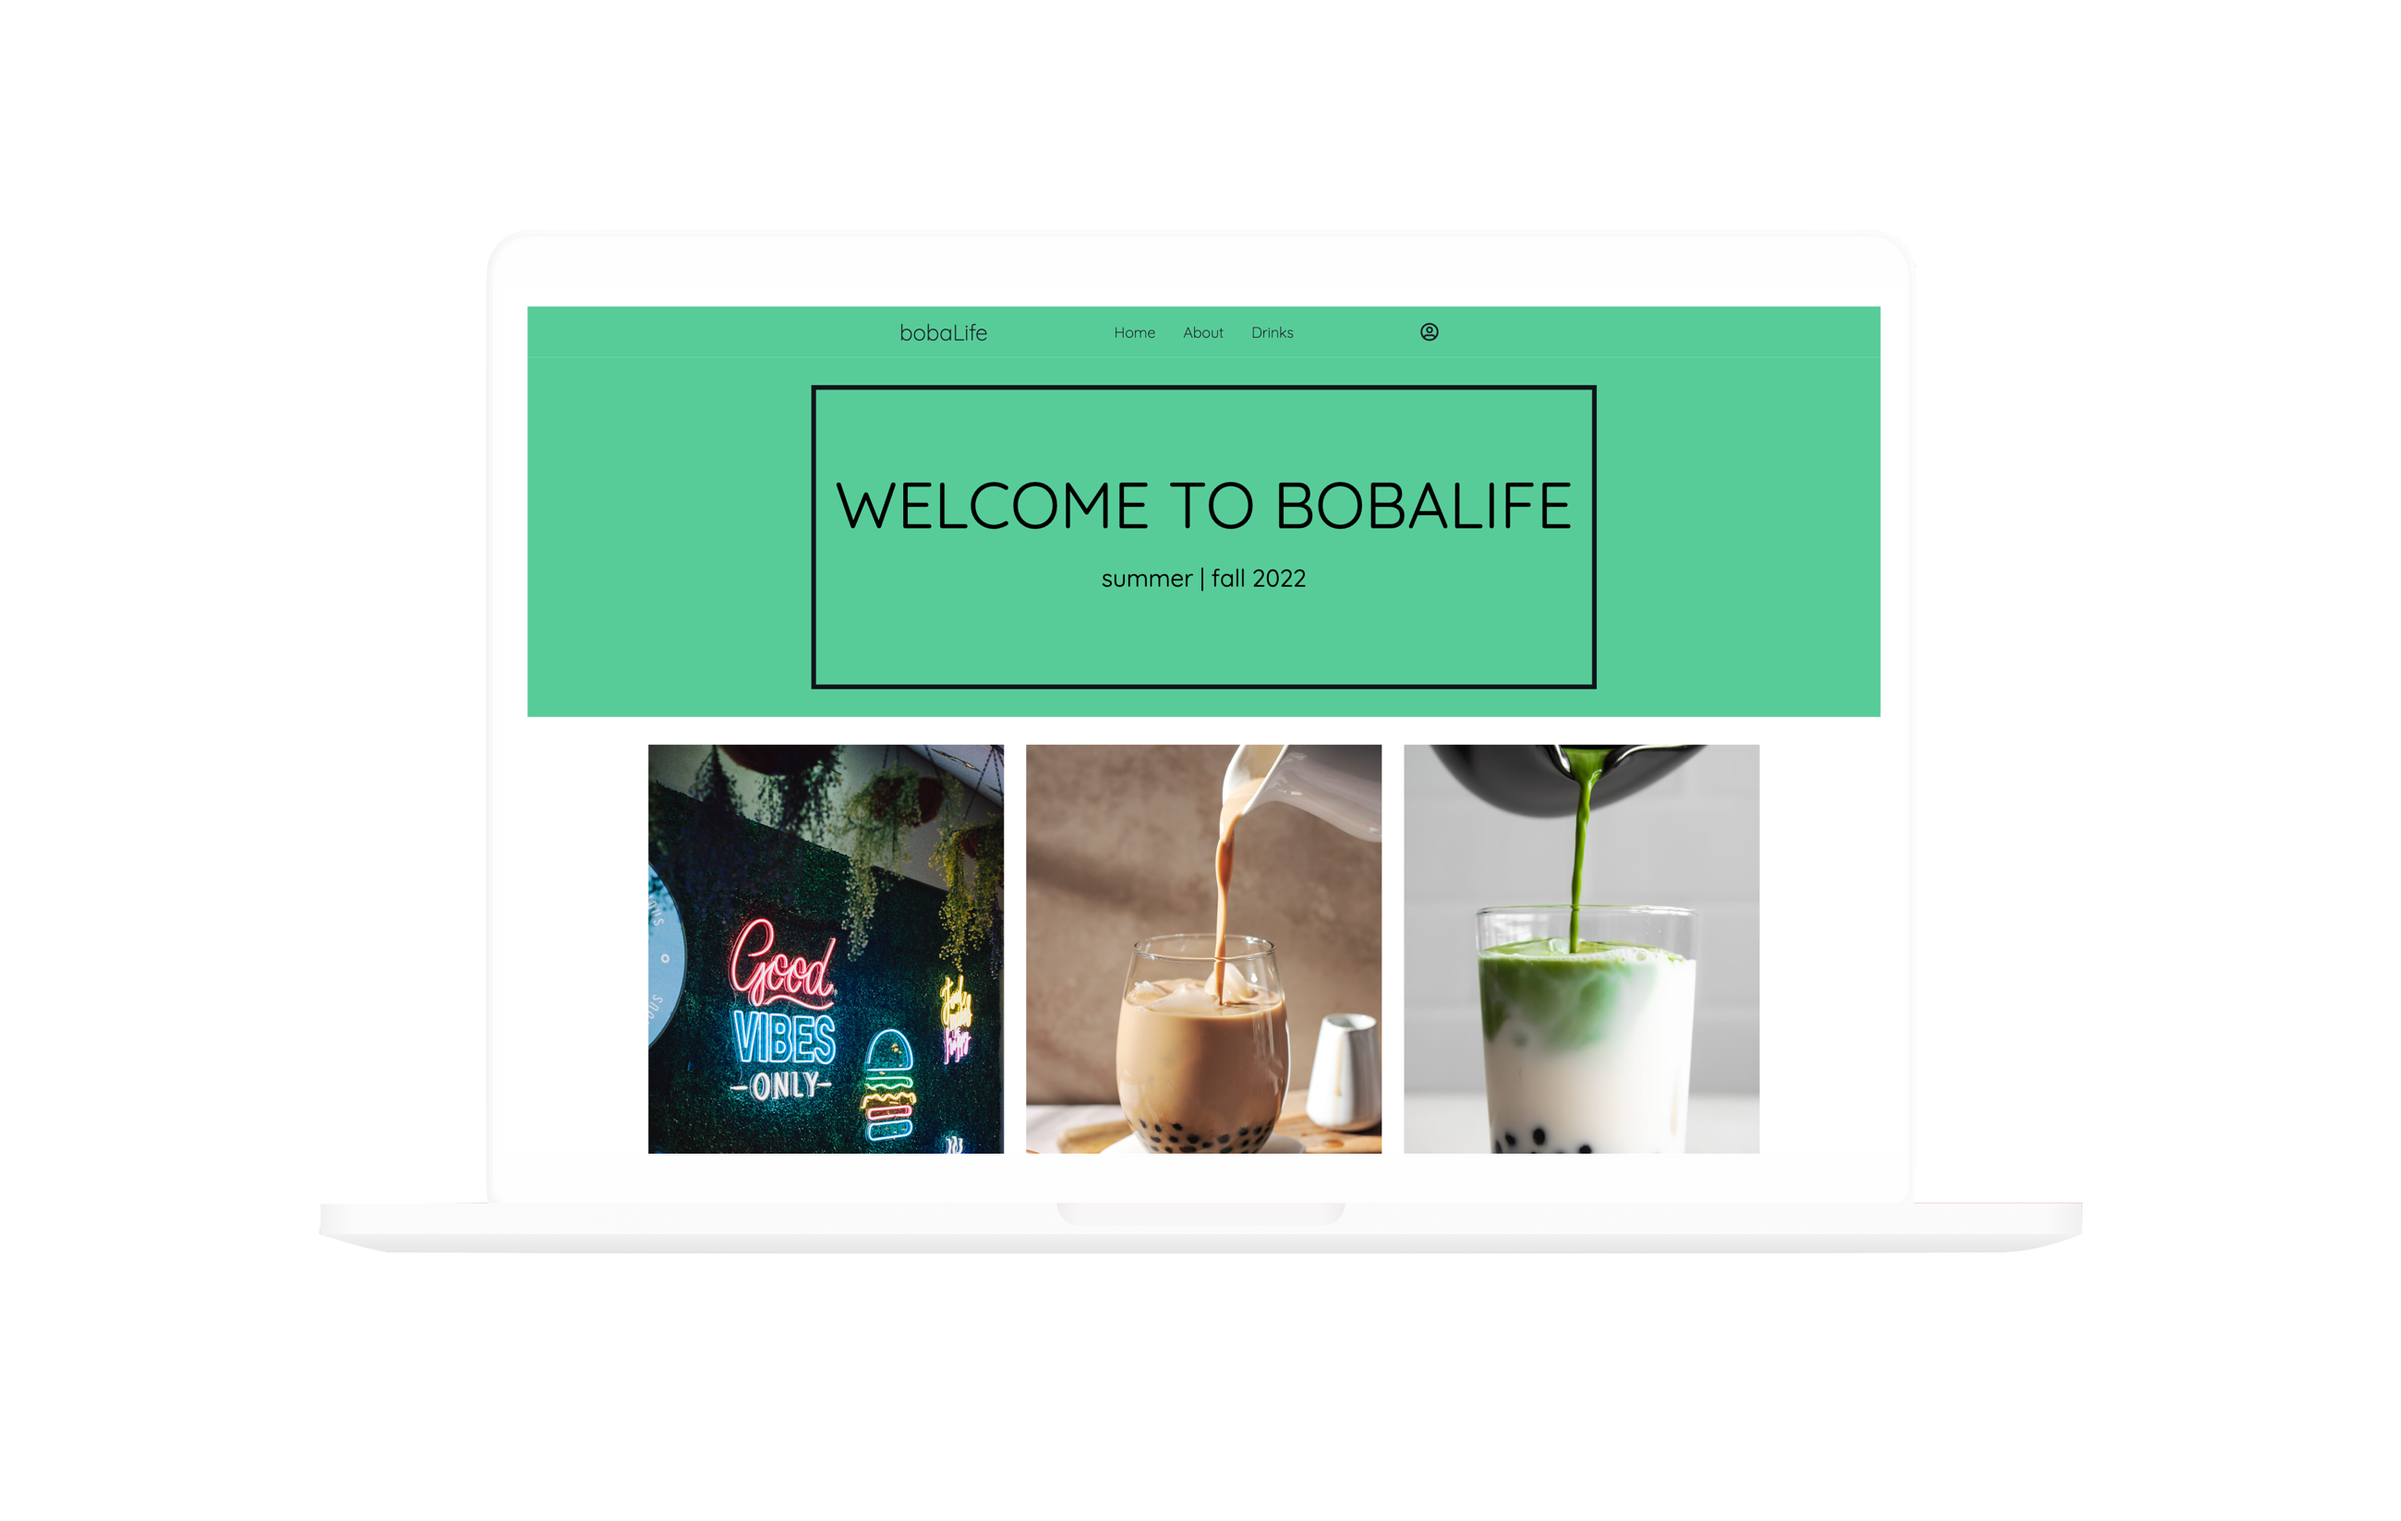
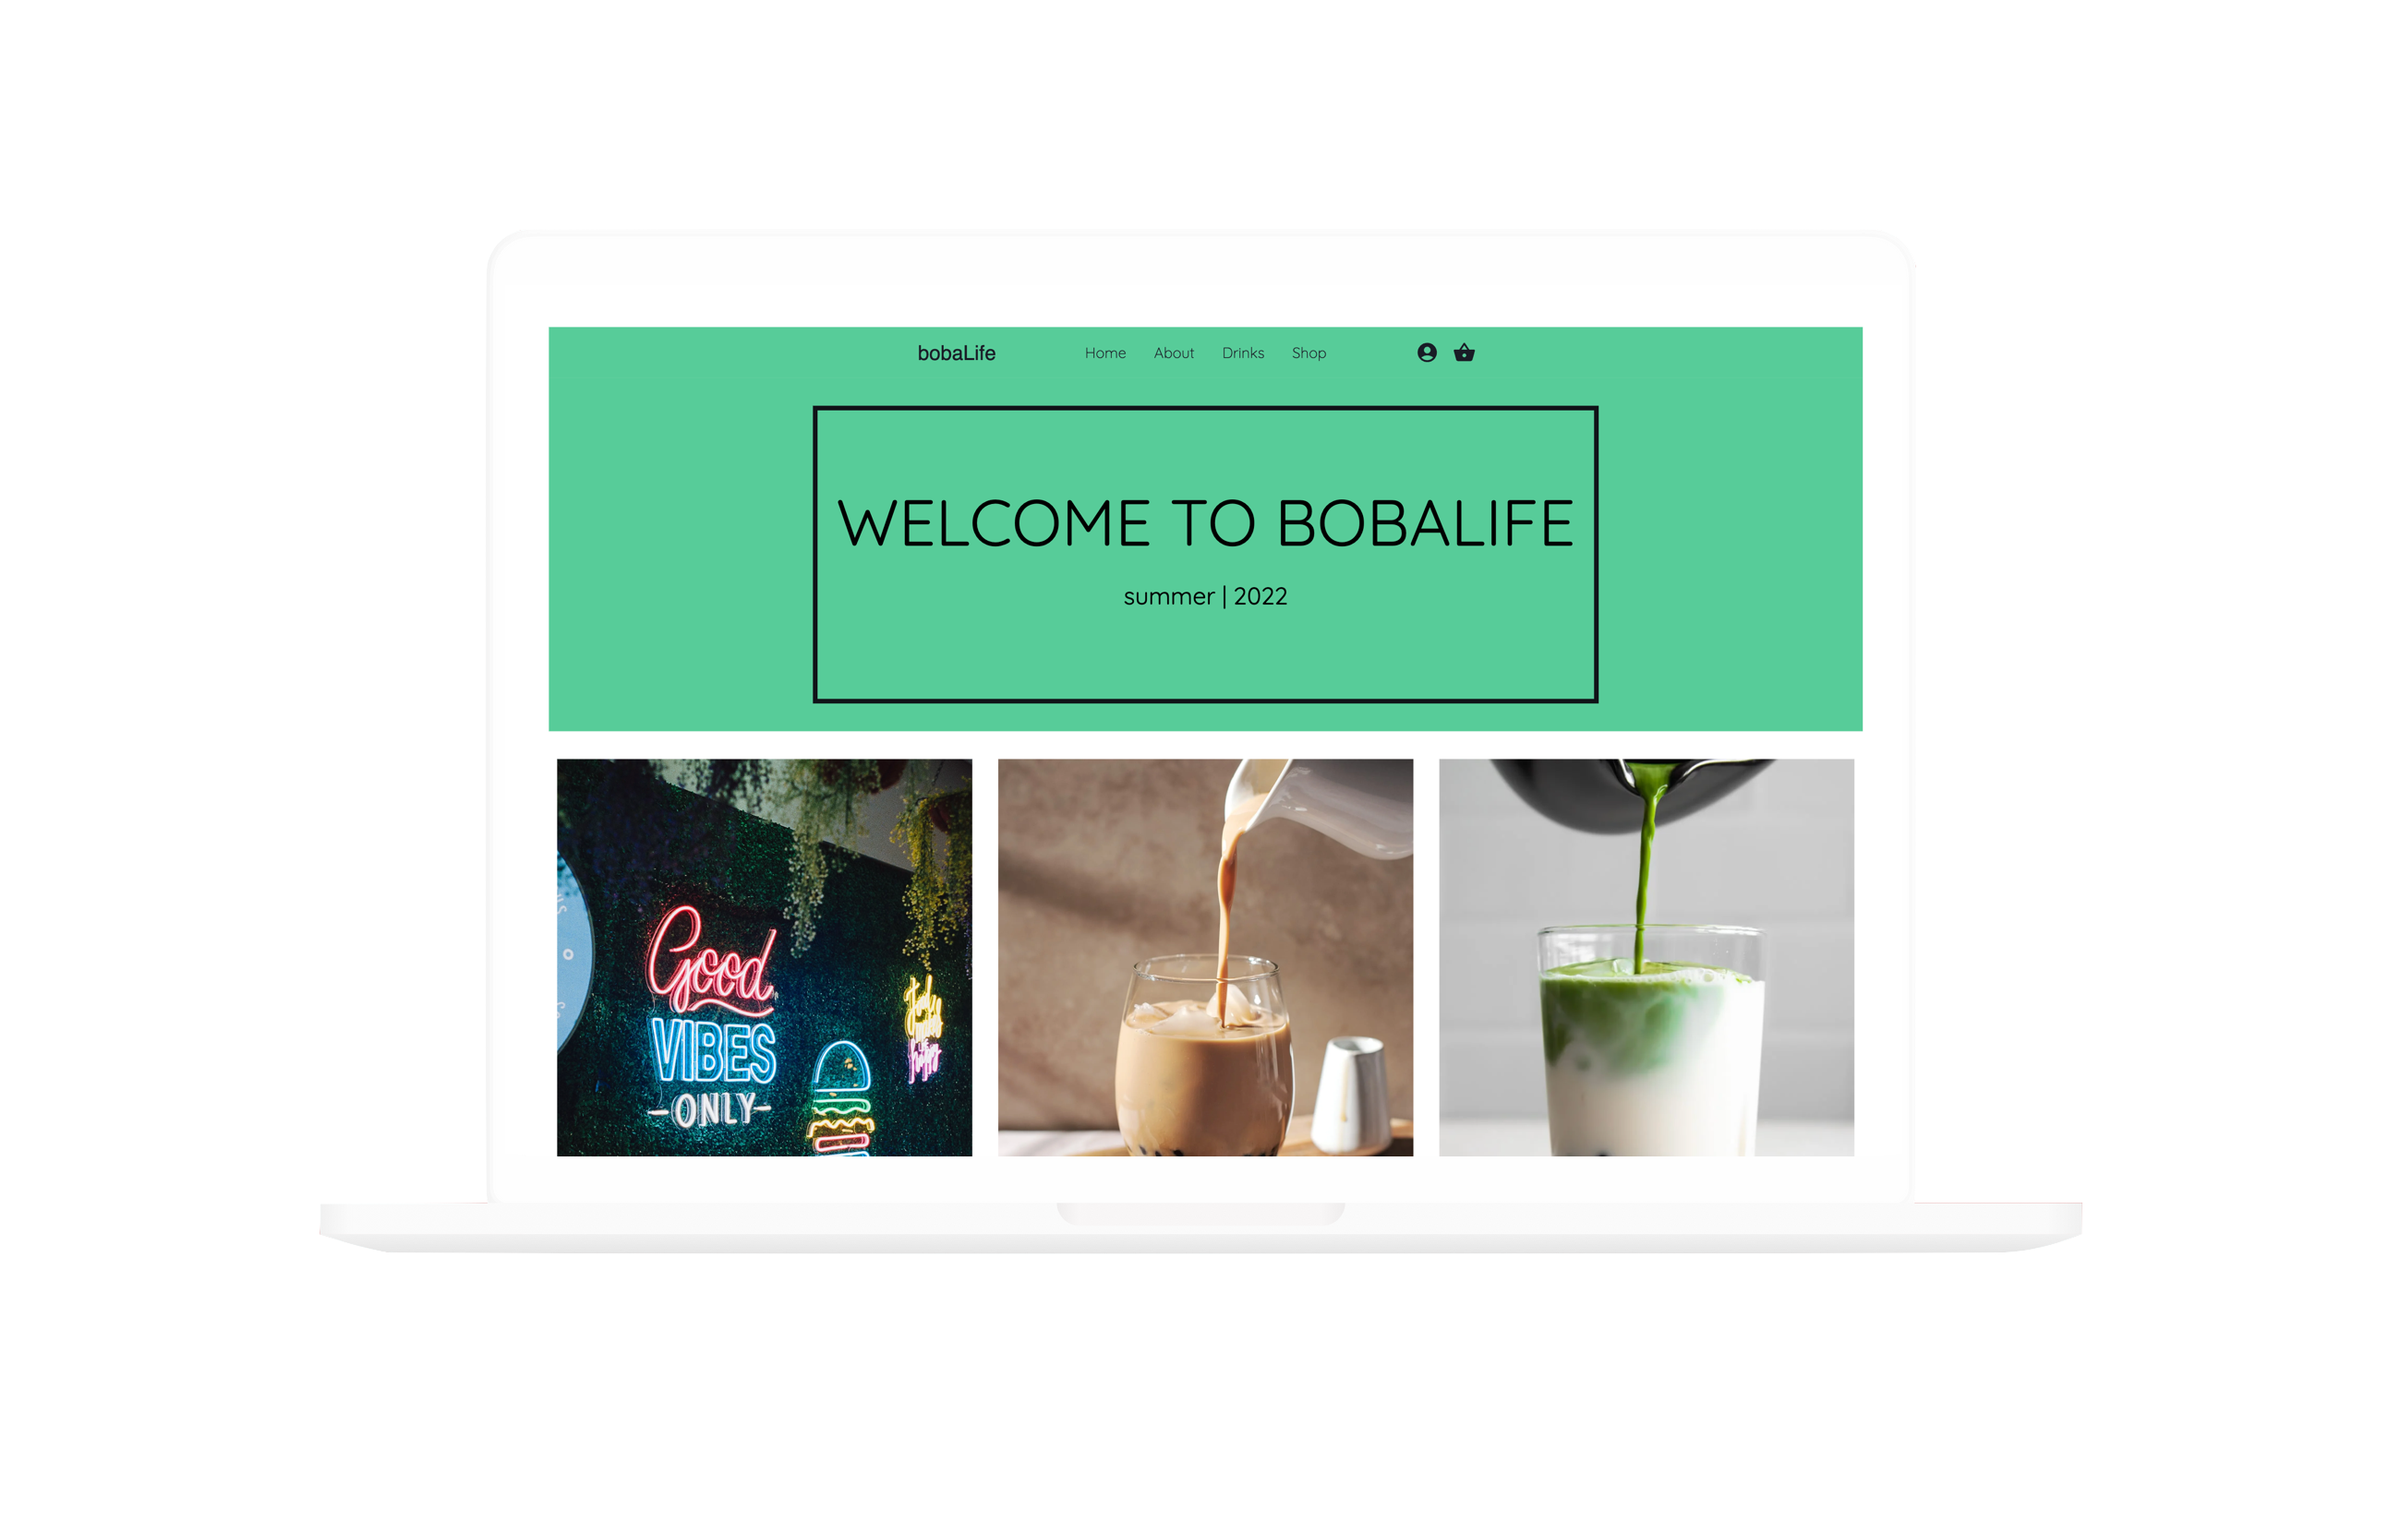
update portfolio and add README.md

Changed region(s): [[0.2181, 0.1857, 0.7788, 0.7737], [0.3427, 0.3095, 0.6542, 0.4023], [0.7788, 0.2166, 0.81, 0.4642]]

diff --git a/client/src/constants/projects.js b/client/src/constants/projects.js
@@ -2,12 +2,23 @@ import asador from "../assets/projects/asador.png";
 import bobaLife from "../assets/projects/bobaLife.png"; 
 import ioniq5 from "../assets/projects/ioniq5.png"; 
 import sailmasterII from "../assets/projects/sailmasterII.png"; 
-import koffee from "../assets/projects/koffee.png"; 
 import laptopMain from "../assets/projects/laptop1.png"; 
 
 export const projects = [
     {
         id: 1, 
+        img: bobaLife, 
+        title: "bobaLife", 
+        description: "Who enjoys sipping an ice-cold boba milk tea at any time of the day? bobaLife is an e-commerce web app designed for a fictitous boba shop. This app incorporates working cart/checkout process and integration of Stripe mobile payments.",
+        buttons: ["React", "Redux", "Styled Components", "Express", "JWT", "Stripe-js", "MongoDB", "Netlify"], 
+        backgroundColor: "var(--fuzzy-wuzzy)", 
+        liveSite: "https://bobalife.netlify.app", 
+        githubRepo: "https://github.com/danveb/bobalife", 
+        target: "_blank", 
+        rel: "noreferrer noopener", 
+    }, 
+    {
+        id: 2, 
         img: asador, 
         title: "asador", 
         description: "Ever wondered about asado (barbeque) in Buenos Aires? Asador is all about sharing the joy of the best parrillas (steakhouses). Users are greeted with a live map with pins. Signing up for an account allows users to pin their favorite parrillas.", 
@@ -19,35 +30,11 @@ export const projects = [
         rel: "noreferrer noopener", 
     }, 
     {
-        id: 2, 
-        img: bobaLife, 
-        title: "bobaLife", 
-        description: "Who enjoys sipping an ice-cold boba milk tea at any time of the day? bobaLife is a personal website I designed for a potential side-biz opportunity. This app includes React Redux and features JWT and Auth on the backend. Potentially may work on an e-commerce functionality.", 
-        buttons: ["React", "Redux", "Sass", "Express", "JWT", "MongoDB", "Netlify"], 
-        backgroundColor: "var(--fuzzy-wuzzy)", 
-        liveSite: "https://bobalife.netlify.app", 
-        githubRepo: "https://github.com/danveb/bobalife", 
-        target: "_blank", 
-        rel: "noreferrer noopener", 
-    }, 
-    {
         id: 3, 
-        img: koffee, 
-        title: "koffee.ly", 
-        description: "An e-commerce website designed for a fictitious coffee shop in town. Browse a selection of classic coffee products and accessories while enjoying an ice-cold coffee. Currently this app is in development stage as I continue to build functionalities. Work in progress!", 
-        buttons: ["React", "Redux", "Styled Components", "Express", "JWT", "MongoDB"],
-        backgroundColor: "var(--powder-blue)", 
-        liveSite: "", 
-        githubRepo: "https://github.com/danveb/koffee.ly", 
-        target: "_blank", 
-        rel: "noreferrer noopener", 
-    }, 
-    {
-        id: 4, 
         img: ioniq5, 
         title: "ioniq5 Lookup", 
-        description: "App designed for users who want to search deliveries of 2022 Hyundai IONIQ 5 to local dealerships. User can fill in the zipcode and desired radius (in miles). Data is fetched from Hyundai USA's API and key details are displayed on a table.", 
-        buttons: ["React", "Sass", "Material UI", "Express", "Hyundai USA API", "Netlify"], 
+        description: "App designed for users who want to search deliveries of 2022 Hyundai IONIQ 5 to local dealerships. User can fill in the zipcode and radius. Data is fetched from Hyundai's API and key details are displayed on a table.", 
+        buttons: ["React", "Sass", "MUI", "Express", "Hyundai USA API", "Netlify"], 
         backgroundColor: "var(--ny-pink)", 
         liveSite: "https://ioniq5-lookup.netlify.app/", 
         githubRepo: "https://github.com/danveb/ioniq5", 
@@ -55,11 +42,11 @@ export const projects = [
         rel: "noreferrer noopener", 
     }, 
     {
-        id: 5, 
+        id: 4, 
         img: sailmasterII, 
         title: "Sail Master II", 
         description: "Sail-Master II is an app for sailors and water sports’ enthusiasts that have a common goal to share the joy in sailing. This app lets users know if sailing conditions based on current wind parameters are appropriate to enjoy a day out on the water.", 
-        buttons: ["React", "Express", "JWT", "Weather API", "PostgreSQL"], 
+        buttons: ["React", "Express", "JWT", "Weather API", "PostgreSQL", "Surge"], 
         backgroundColor: "var(--cadet-blue-crayola)", 
         liveSite: "https://lighthouse-sailor.surge.sh/", 
         githubRepo: "https://github.com/danveb/sail-master-II", 
@@ -67,7 +54,7 @@ export const projects = [
         rel: "noreferrer noopener", 
     }, 
     {
-        id: 6, 
+        id: 5, 
         img: laptopMain, 
         title: "Check my GitHub", 
         description: "Check my GitHub link to view more projects where I continue to build user-focused apps. Follow the link below!", 

diff --git a/client/src/components/Hero/Hero.scss b/client/src/components/Hero/Hero.scss
@@ -175,7 +175,7 @@
         .scroll-arrow { 
             position: absolute; 
             bottom: 50px; 
-            left: 48%; 
+            left: 49%; 
             transform: translateX(-50%); 
             animation: fadeBounce 2.3s infinite; 
         }

diff --git a/client/src/components/Hero/Hero.jsx b/client/src/components/Hero/Hero.jsx
@@ -1,5 +1,4 @@
-// import ioniq5 from "../../assets/projects/ioniq5.png"; 
-import laptop from "../../assets/projects/asador.png"; 
+import laptop from "../../assets/projects/bobaLife.png"; 
 import "./Hero.scss"; 
 
 const Hero = () => {

diff --git a/README.md b/README.md
@@ -1,0 +1,35 @@
+# bobaLife 
+
+## Intro 
+React app to showcase my portfolio with latest projects and share with the world a little bit about me as a developer. 
+
+## Features
+- About
+- Projects
+- Contact
+- Resume (external link)
+
+## Live App 
+- [Netlify](https://portfolio-dbae.netlify.app/) - https://portfolio-dbae.netlify.app
+
+## Source Code 
+- [GitHub](https://github.com/danveb/portfolio.db)
+
+---
+  
+## Landing 
+
+<img src="https://media.giphy.com/media/yhXtpxNdL2Bvo7QBx7/giphy.gif">
+
+---
+## Project structure 
+
+```sh
+client (React.js)
+```
+
+## Run
+
+```sh
+$ yarn start
+```
